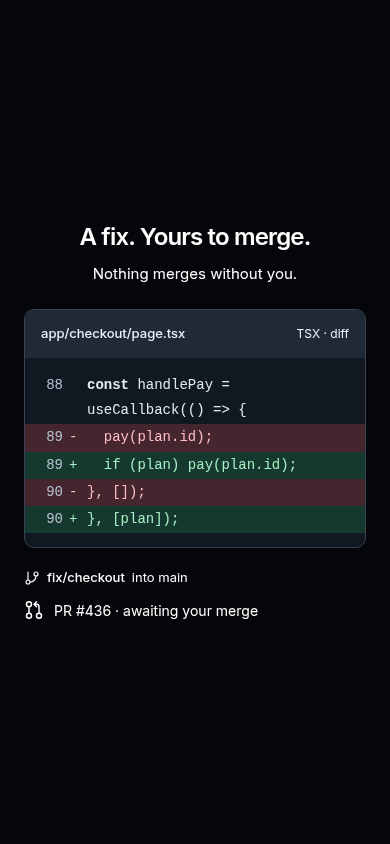
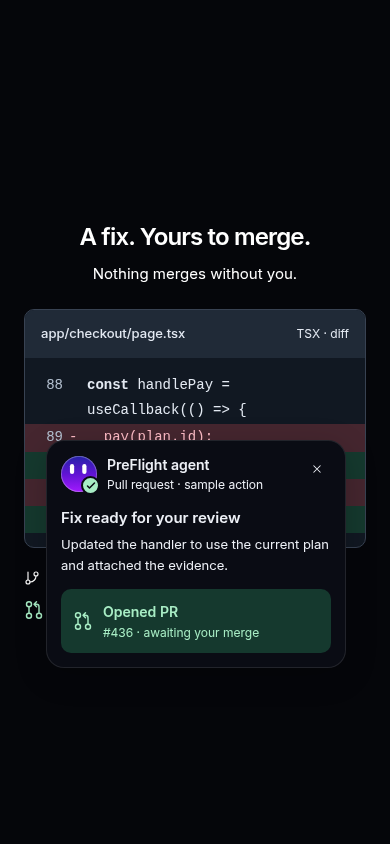
Keep agent summaries following on hover and confirm the opened PR

Changed region(s): [[0.0615, 0.5237, 0.8923, 0.8009]]

diff --git a/components/AgentOverview.tsx b/components/AgentOverview.tsx
@@ -4,7 +4,16 @@ import { useEffect, useRef, useState, type RefObject } from "react";
 
 export type AgentPointer = { x: number; y: number };
 
-const FINDINGS = [
+export const BROWSER_FINDING = 3;
+export const PR_FINDING = 4;
+
+type Finding = {
+  source: string;
+  title: string;
+  description: string;
+  complete?: boolean;
+};
+const FINDINGS: Finding[] = [
   {
     source: "Screenshot",
     title: "Checkout stalled",
@@ -23,6 +32,19 @@ const FINDINGS = [
     description:
       "No POST /api/checkout was sent. The handler failed before the request could leave the browser.",
   },
+  {
+    source: "Browser",
+    title: "Reproduced the checkout bug",
+    description:
+      "Selected Pro and clicked Pay now. The page stayed idle, so I’m collecting the evidence.",
+  },
+  {
+    source: "Pull request",
+    title: "Fix ready for your review",
+    description:
+      "Updated the handler to use the current plan and attached the evidence.",
+    complete: true,
+  },
 ];
 
 export default function AgentOverview({
@@ -39,15 +61,9 @@ export default function AgentOverview({
     const element = popup.current;
     if (!element || dismissed) return;
     let frame = 0;
-    let hovered = false;
     const position = () => {
       frame = 0;
-      if (
-        !pointer.current ||
-        hovered ||
-        element.contains(document.activeElement)
-      )
-        return;
+      if (!pointer.current || element.contains(document.activeElement)) return;
       const { x, y } = pointer.current;
       const width = element.offsetWidth;
       const height = element.offsetHeight;
@@ -71,15 +87,11 @@ export default function AgentOverview({
       element.style.top = `${top - parent.top}px`;
     };
     const schedule = (event?: Event) => {
-      if (
-        (event instanceof PointerEvent && event.pointerType === "touch") ||
-        (event?.target instanceof Node && element.contains(event.target))
-      )
+      if (event instanceof PointerEvent && event.pointerType === "touch")
         return;
       if (!frame) frame = requestAnimationFrame(position);
     };
     const freeze = () => {
-      hovered = true;
       cancelAnimationFrame(frame);
       frame = 0;
       if (element.dataset.anchor !== "cursor") return;
@@ -92,26 +104,26 @@ export default function AgentOverview({
       element.style.top = `${bounds.top - parent.top}px`;
     };
     const resume = () => {
-      hovered = false;
       delete element.dataset.held;
       schedule();
     };
+    const dismissOnEscape = (event: KeyboardEvent) => {
+      if (event.key === "Escape") setDismissed(true);
+    };
+    window.addEventListener("keydown", dismissOnEscape);
     position();
     const resize = new ResizeObserver(() => schedule());
     resize.observe(element);
     window.addEventListener("pointermove", schedule, { passive: true });
     window.addEventListener("resize", schedule);
-    element.addEventListener("pointerenter", freeze);
-    element.addEventListener("pointerleave", resume);
     element.addEventListener("focusin", freeze);
     element.addEventListener("focusout", resume);
     return () => {
       cancelAnimationFrame(frame);
+      window.removeEventListener("keydown", dismissOnEscape);
       resize.disconnect();
       window.removeEventListener("pointermove", schedule);
       window.removeEventListener("resize", schedule);
-      element.removeEventListener("pointerenter", freeze);
-      element.removeEventListener("pointerleave", resume);
       element.removeEventListener("focusin", freeze);
       element.removeEventListener("focusout", resume);
     };
@@ -122,22 +134,41 @@ export default function AgentOverview({
     <aside
       ref={popup}
       className="agent-overview"
+      data-complete={issue.complete || undefined}
       aria-label={`${issue.source} agent overview`}
     >
       <div className="agent-overview-header">
-        {/* A vector rendition of the supplied robot reference, rather than a remote asset. */}
-        {/* eslint-disable-next-line @next/next/no-img-element */}
-        <img
-          src="/agent-robot.svg"
-          width="36"
-          height="36"
-          alt=""
-          aria-hidden="true"
-        />
+        <div className="agent-overview-avatar">
+          {/* A vector rendition of the supplied robot reference. */}
+          {/* eslint-disable-next-line @next/next/no-img-element */}
+          <img
+            src="/agent-robot.svg"
+            width="36"
+            height="36"
+            alt=""
+            aria-hidden="true"
+          />
+          {issue.complete && (
+            <span className="agent-completed-badge" aria-hidden="true">
+              <svg
+                width="12"
+                height="12"
+                viewBox="0 0 24 24"
+                fill="none"
+                stroke="currentColor"
+                strokeWidth="3"
+                strokeLinecap="round"
+                strokeLinejoin="round"
+              >
+                <path d="m5 12 4 4 10-10" />
+              </svg>
+            </span>
+          )}
+        </div>
         <div>
           <p className="agent-overview-name">PreFlight agent</p>
           <p className="agent-overview-source">
-            {issue.source} · sample finding
+            {issue.source} · sample {issue.complete ? "action" : "finding"}
           </p>
         </div>
         <button
@@ -162,6 +193,30 @@ export default function AgentOverview({
       <div className="agent-overview-finding" role="status" aria-live="polite">
         <h4>{issue.title}</h4>
         <p>{issue.description}</p>
+        {issue.complete && (
+          <div className="agent-opened-pr">
+            <svg
+              width="20"
+              height="20"
+              viewBox="0 0 24 24"
+              fill="none"
+              stroke="currentColor"
+              strokeWidth="1.75"
+              strokeLinecap="round"
+              strokeLinejoin="round"
+              aria-hidden="true"
+            >
+              <circle cx="6" cy="5" r="3" />
+              <circle cx="6" cy="19" r="3" />
+              <circle cx="18" cy="19" r="3" />
+              <path d="M6 8v8M18 16V8a3 3 0 0 0-3-3h-3m3-3-3 3 3 3" />
+            </svg>
+            <div>
+              <strong>Opened PR</strong>
+              <span>#436 · awaiting your merge</span>
+            </div>
+          </div>
+        )}
       </div>
     </aside>
   );

diff --git a/app/globals.css b/app/globals.css
@@ -364,7 +364,7 @@ html[data-run-pinned] nav[aria-label="Main navigation"] { visibility: hidden; po
 .agent-overview { position: absolute; right: 24px; bottom: 24px; z-index: 30; width: min(300px, calc(100% - 32px)); padding: 16px; border: 1px solid var(--line); border-radius: 18px; background: var(--surface); color: #1e1b4b; box-shadow: 0 8px 32px #11182214; animation: agent-overview-enter 320ms 500ms cubic-bezier(0.16, 1, 0.3, 1) both; }
 .dark .agent-overview { color: #edf0f6; box-shadow: 0 8px 32px #0003; }
 .agent-overview-header { display: flex; align-items: center; gap: 10px; }
-.agent-overview-header > img { flex-shrink: 0; }
+.agent-overview-avatar { position: relative; flex-shrink: 0; width: 36px; height: 36px; }
 .agent-overview-name { font-size: 14px; font-weight: 600; line-height: 1.4; }
 .agent-overview-source { margin-top: 2px; font-size: 12px; line-height: 1.4; }
 .agent-overview-dismiss { display: grid; place-items: center; width: 28px; height: 28px; margin-left: auto; align-self: flex-start; border-radius: 50%; cursor: pointer; }
@@ -382,3 +382,14 @@ html.dark { --run-bg: #111822; --run-fg: #e3e9f2; --run-border: #384252; --run-t
 .agent-overview[data-anchor="cursor"] { right: auto; bottom: auto; transition: left 120ms ease-out, top 120ms ease-out; }
 .agent-overview[data-held="true"] { transition: none; }
 @media (prefers-reduced-motion: reduce) { .agent-overview[data-anchor="cursor"] { transition: none; } }
+
+/* The final note confirms an action, with a checked agent avatar and PR receipt. */
+.agent-completed-badge { position: absolute; right: -3px; bottom: -3px; display: grid; place-items: center; width: 19px; height: 19px; border: 2px solid var(--surface); border-radius: 50%; background: var(--run-success-fg); color: var(--surface); }
+.agent-completed-badge path { stroke-dasharray: 22; animation: agent-check-draw 260ms 700ms ease-out backwards; }
+.agent-opened-pr { display: flex; align-items: center; gap: 10px; margin-top: 14px; padding: 12px; border-radius: 10px; background: var(--run-success-bg); color: var(--run-success-fg); }
+.agent-opened-pr > svg { flex-shrink: 0; }
+.agent-opened-pr strong { display: block; font-size: 14px; font-weight: 600; }
+.agent-opened-pr span { display: block; margin-top: 3px; font-size: 12px; line-height: 1.4; }
+.run-pr-confirmation { color: var(--run-success-fg); }
+@keyframes agent-check-draw { from { stroke-dashoffset: 22; } to { stroke-dashoffset: 0; } }
+@media (prefers-reduced-motion: reduce) { .agent-completed-badge path { animation: none; } }

diff --git a/components/RunScrollSequence.tsx b/components/RunScrollSequence.tsx
@@ -1,7 +1,11 @@
 "use client";
 
 import { Children, useEffect, useRef, useState, type ReactNode } from "react";
-import AgentOverview, { type AgentPointer } from "./AgentOverview";
+import AgentOverview, {
+  BROWSER_FINDING,
+  PR_FINDING,
+  type AgentPointer,
+} from "./AgentOverview";
 
 export default function RunScrollSequence({
   children,
@@ -63,10 +67,9 @@ export default function RunScrollSequence({
         });
       setPinned(enabled);
       const bounds = element.getBoundingClientRect();
-      document.documentElement.toggleAttribute(
-        "data-run-pinned",
-        enabled && bounds.top <= 0 && bounds.bottom >= window.innerHeight,
-      );
+      const inAnimation =
+        enabled && bounds.top <= 0 && bounds.bottom >= window.innerHeight;
+      document.documentElement.toggleAttribute("data-run-pinned", inAnimation);
       if (!enabled) {
         setFinding(null);
         cards.forEach((card) => {
@@ -93,7 +96,17 @@ export default function RunScrollSequence({
         const open = Math.min(1, local / 0.7);
         const front = local < 1 ? -1 : Math.min(2, Math.floor(local - 1));
         fan.dataset.front = String(front);
-        setFinding(next === fanScene && front >= 0 ? front : null);
+        setFinding(
+          !inAnimation
+            ? null
+            : next === 0
+              ? BROWSER_FINDING
+              : next === beats.length - 1
+                ? PR_FINDING
+                : next === fanScene && front >= 0
+                  ? front
+                  : null,
+        );
         const cardWidth = Math.min(260, fan.clientWidth * 0.7);
         const cardHeight = cardWidth * 1.4;
         const spread = Math.max(

diff --git a/components/ProofChapter.tsx b/components/ProofChapter.tsx
@@ -71,9 +71,9 @@ export default function ProofChapter() {
                 fix/checkout{" "}
                 <span className="run-branch-target">into main</span>
               </span>
-              <p>
+              <p className="run-pr-confirmation">
                 <PullRequestIcon />
-                <span>PR #436 · awaiting your merge</span>
+                <span>Opened PR #436 · awaiting your merge</span>
               </p>
             </div>
           </article>

diff --git a/docs/landing-review/README.md b/docs/landing-review/README.md
@@ -2,7 +2,9 @@
 
 The evidence step now shows three portrait cards instead of tabs: Screenshot, Console and Network. They unfold with Screenshot centered and unrotated, Console on the left, and Network on the right. Screenshot is also stacked above the other two, so the first expansion starts in place. Continued scrolling morphs the selected card from playing-card proportions into its own browser or tool-window dimensions. The browser targets a 960×600 desktop window (16:10), Console 640×300, and Network 720×360. On narrower screens the windows fit the available width and retain enough height for readable content, instead of filling the viewport. Other cards retain their playing-card proportions and move to the viewport edges. Reverse scrolling returns to the fan.
 
-Each expanded evidence window has a dismissible agent overview that follows 16px above and to the right of the cursor. It clamps at the viewport edges and flips below when there is no room above. Hovering or focusing it holds it still for dismissal. Touch input keeps a corner fallback. The icon is a local SVG rendition of the supplied robot reference (`public/agent-robot.svg`).
+Each expanded evidence window has a dismissible agent overview that follows 16px above and to the right of the cursor. It clamps at the viewport edges and flips below when there is no room above. It keeps following when the pointer passes over the panel. Keyboard focus can hold it still for dismissal; Escape also dismisses it. Touch input keeps a corner fallback. The icon is a local SVG rendition of the supplied robot reference (`public/agent-robot.svg`).
+
+Agent summaries also appear on the opening checkout scene and the final fix scene. The final summary confirms the sample action with an animated checkmark on the robot and a green “Opened PR” receipt for #436, while leaving the merge decision with the user. The final scene’s PR caption also says “Opened PR”.
 
 The browser, evidence, diagnosis and PR still form one centered pinned sequence. Evidence gets four scroll beats: fan opening, screenshot forward, console forward and network forward. The page releases after the PR. After scrolling settles, the page snaps to the nearest animation beat. Snapping is restricted to the pinned range and disabled for reduced motion; scrolling before and after the animation stays in normal flow. The floating site nav is hidden during the sequence.
 
@@ -18,6 +20,17 @@ Reduced motion, JavaScript-disabled browsers and short viewports show the three 
 | 768 × 1024 / dark | [View](fan/768-dark-0.png) | [View](fan/768-dark-1.png) | [View](fan/768-dark-2.png) | [View](fan/768-dark-3.png) |
 | 390 × 844 / light | [View](fan/390-light-0.png) | [View](fan/390-light-1.png) | [View](fan/390-light-2.png) | [View](fan/390-light-3.png) |
 | 390 × 844 / dark | [View](fan/390-dark-0.png) | [View](fan/390-dark-1.png) | [View](fan/390-dark-2.png) | [View](fan/390-dark-3.png) |
+
+## Opening and completed-action summaries
+
+| Viewport / theme | Checkout issue | Opened PR |
+| --- | --- | --- |
+| 1440 × 900 / light | [View](pinned/1440-light-0.png) | [View](pinned/1440-light-3.png) |
+| 1440 × 900 / dark | [View](pinned/1440-dark-0.png) | [View](pinned/1440-dark-3.png) |
+| 768 × 1024 / light | [View](pinned/768-light-0.png) | [View](pinned/768-light-3.png) |
+| 768 × 1024 / dark | [View](pinned/768-dark-0.png) | [View](pinned/768-dark-3.png) |
+| 390 × 844 / light | [View](pinned/390-light-0.png) | [View](pinned/390-light-3.png) |
+| 390 × 844 / dark | [View](pinned/390-dark-0.png) | [View](pinned/390-dark-3.png) |
 
 ## Full-page comparison
 
@@ -35,6 +48,7 @@ These after images show the reduced-motion stacked fallback. Before images use t
 - All three viewport sizes in both themes: each card expands to its actual window dimensions; windows stay centered and inside the viewport; other cards park at the sides in playing-card proportions; reverse scrolling restores the fan; no clipped window content or horizontal document overflow. The initial screenshot placement is also checked. See balanced-verification.jsonl.
 - Width, height and transform animate together over 700ms. The heading fades while a window is expanded so it stays out of the way. The pinned stage keeps its reserved height during the expansion.
 - Reduced motion and JavaScript-disabled checks confirm all three cards remain readable without transforms or pinning.
+- Agent-tour checks at all three sizes in both themes verify continued tracking while the cursor enters the actual popup, summaries for the opening browser and all three evidence cards, the completed PR receipt/checkmark, Escape dismissal, and no popup after release. Mobile audits cover all five overview states in both themes with zero violations. See agent-tour-verification.jsonl.
 - Cursor/theme/snap checks at all three sizes in both themes verify upper-right placement, edge clamping, keyboard dismissal, and actual theme-toggle changes on Console, Network, code and log surfaces. They also verify snapping inside the sequence, no snapping before/after it, and touch/reduced-motion fallbacks. See cursor-theme-snap-verification.jsonl.
 - Console, Network, code, logs, metadata, removed/added lines and borders now use shared light/dark palette tokens instead of fixed dark colors. Parked edge previews remain decorative while a window is expanded; the stacked fallback restores all cards.
 - Axe WCAG A/AA checks, including text contrast, pass in both themes with no violations or incomplete checks. The stacked fallback exposes all three cards to the audit. See accessibility.jsonl.
